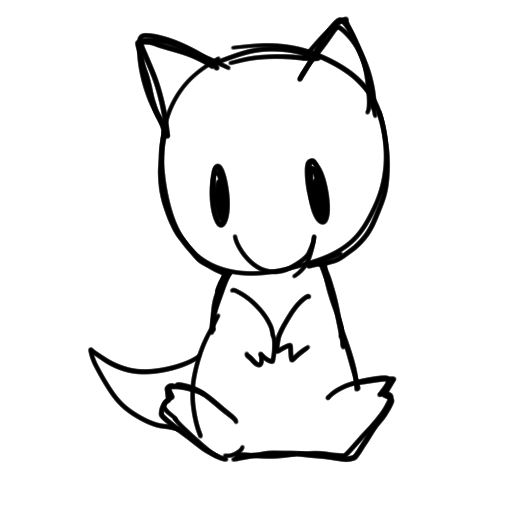
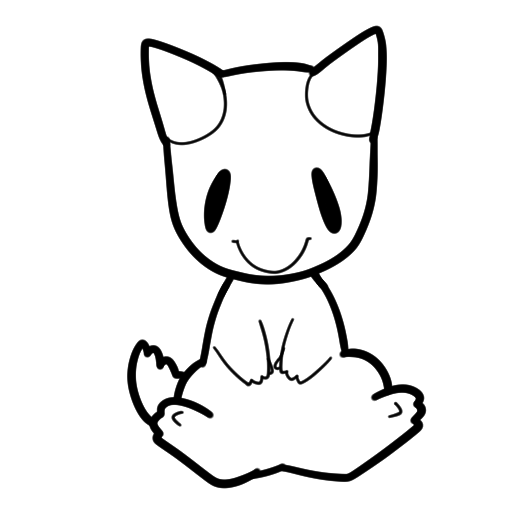
added customer walk animations, and worker animations

Changed region(s): [[0.1562, 0.0312, 0.8438, 0.9688], [0.4375, 0.1875, 0.4688, 0.2188]]

diff --git a/src/assets/assets.ts b/src/assets/assets.ts
@@ -18,8 +18,13 @@ const images: Image[] = [
 	image('characters/workerWalkDown1', 'workerWalk1'),
 	image('characters/workerWalkDown2', 'workerWalk2'),
 	image('characters/workerWalkDown3', 'workerWalk3'),
+	// WORKER WORKING ANIMATION
+	image('characters/workerWorking', 'workerWork1'),
+	image('characters/workerWorking2', 'workerWork2'),
 	// Small size customers
 	image('characters/smallCWalk1', 'small_customer_walk1'),
+	image('characters/smallCWalk2', 'small_customer_walk2'),
+	image('characters/smallCWalk3', 'small_customer_walk3'),
 	image('characters/smallCSit1', 'small_customer_sit1'),
 	// Medium size customers
 	image('characters/medCWalk1', 'medium_customer_walk1'),
